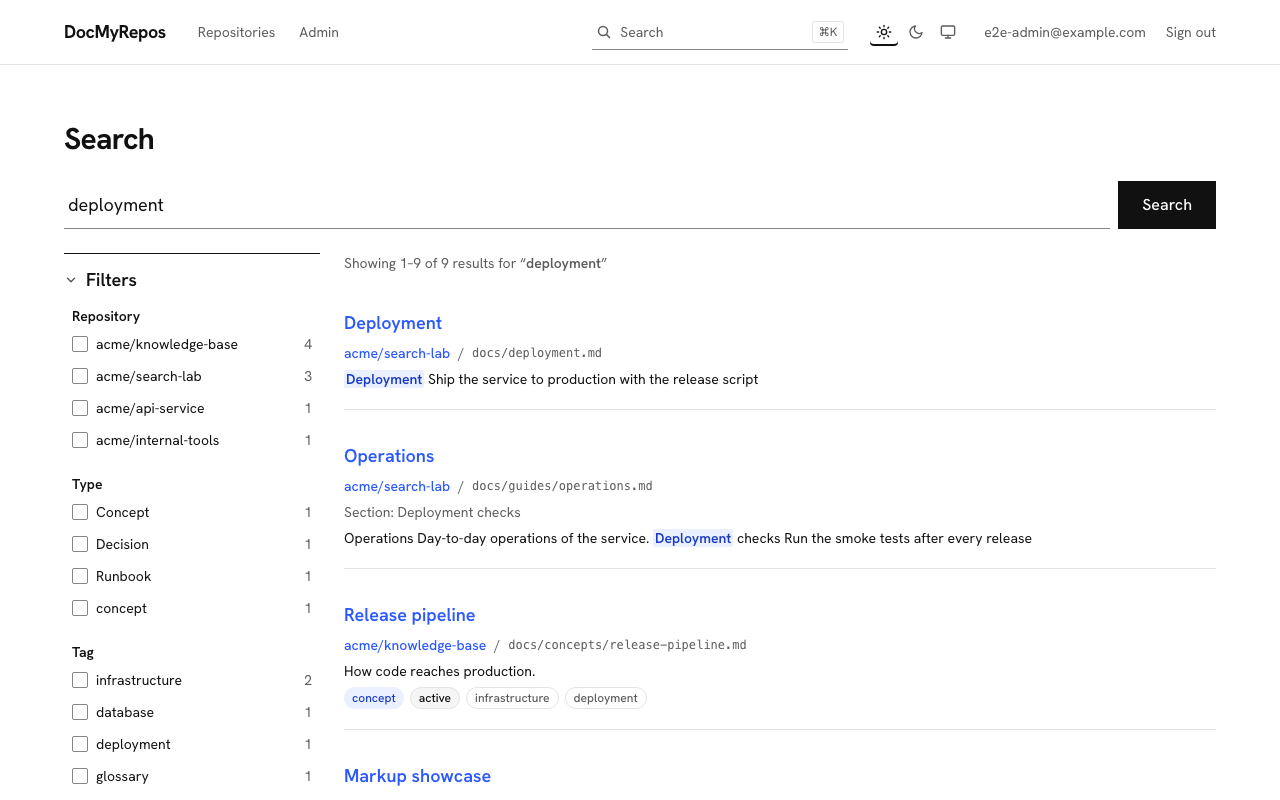
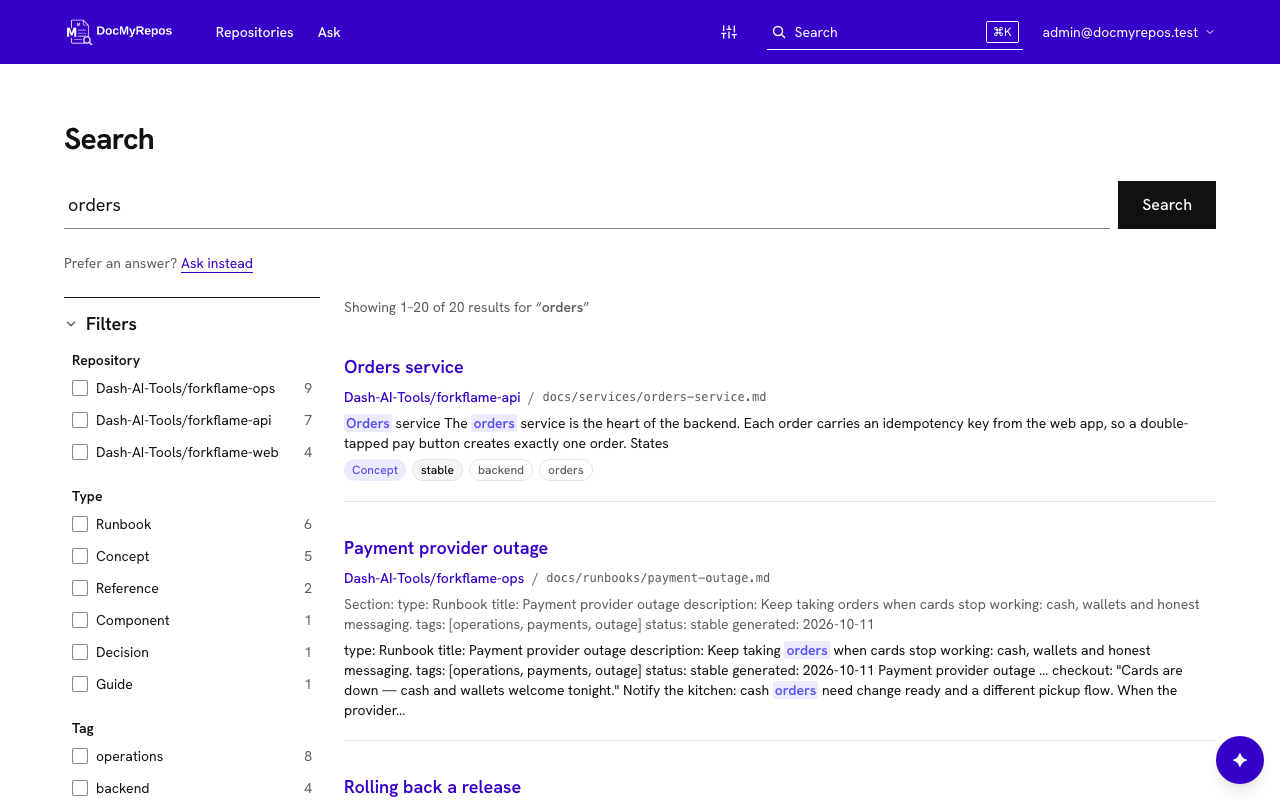
Brand the app and refresh the README
Show the DocMyRepos logo in the footer credit (dark and white variants per
theme) and serve the favicon and touch icon. The icons and footer logos are
public paths in the proxy so the sign-in page gets them too, and the image
now ships public/.

Rework the README header with the logo, a short pitch and feature tags,
retake the screenshots from a real synced instance, add API reference,
workspace and status shots, and update the first-run steps for the Run
first sync button.

diff --git a/src/components/site-footer.tsx b/src/components/site-footer.tsx
@@ -6,16 +6,32 @@ export function SiteFooter() {
   return (
     <footer data-read-hide className="border-t border-border">
       <div className="site-shell mx-auto flex w-full max-w-[88rem] flex-wrap justify-between gap-2 px-5 py-8 text-sm text-muted-foreground sm:px-8 lg:px-16">
-        <span>
-          Powered by{" "}
+        <span className="inline-flex flex-wrap items-center gap-x-2">
+          Powered by
           <a
             href={REPO_URL}
             target="_blank"
             rel="noopener noreferrer"
             data-testid="footer-credit-link"
-            className="text-muted-foreground underline hover:text-foreground"
+            className="inline-flex items-center hover:opacity-80"
           >
-            DocMyRepos
+            {/* The dark logo is for light surfaces, the white one for the dark theme. */}
+            {/* eslint-disable-next-line @next/next/no-img-element */}
+            <img
+              src="/logo-black.png"
+              alt="DocMyRepos"
+              width={480}
+              height={135}
+              className="h-6 w-auto dark:hidden"
+            />
+            {/* eslint-disable-next-line @next/next/no-img-element */}
+            <img
+              src="/logo-white.png"
+              alt="DocMyRepos"
+              width={480}
+              height={137}
+              className="hidden h-6 w-auto dark:block"
+            />
           </a>
           {" · "}
           <a

diff --git a/src/components/site-footer.test.tsx b/src/components/site-footer.test.tsx
@@ -16,6 +16,15 @@ describe("site footer", () => {
     expect(html).toContain("<svg");
   });
 
+  it("shows the logo inside the credit link, one image per theme, from this origin", () => {
+    const html = renderToStaticMarkup(<SiteFooter />);
+    const link = /<a [^>]*data-testid="footer-credit-link"[^>]*>(.*?)<\/a>/.exec(html)?.[1] ?? "";
+    expect(link).toContain('src="/logo-black.png"');
+    expect(link).toContain('src="/logo-white.png"');
+    expect(link.match(/alt="DocMyRepos"/g)).toHaveLength(2);
+    expect(link).toContain("dark:hidden");
+  });
+
   it("keeps the Sync status link and renders the same whatever branding is set", () => {
     const html = renderToStaticMarkup(<SiteFooter />);
     expect(html).toContain('data-testid="footer-status-link"');

diff --git a/src/proxy.ts b/src/proxy.ts
@@ -34,6 +34,12 @@ function isPublicPath(pathname: string): boolean {
     // Portal logo: shown on the sign-in page, so served without a session. Exactly this
     // path; nothing else under `/api/branding/` is public.
     pathname === "/api/branding/logo" ||
+    // Product brand files: the favicon, the touch icon and the footer credit logos, which the
+    // sign-in page needs too. Exactly these paths; they hold no data.
+    pathname === "/icon.png" ||
+    pathname === "/apple-icon.png" ||
+    pathname === "/logo-black.png" ||
+    pathname === "/logo-white.png" ||
     // Fixture pages for component tests (gated separately by E2E_FIXTURES, see e2e-fixtures.ts).
     pathname.startsWith("/e2e/")
   );

diff --git a/src/proxy.test.ts b/src/proxy.test.ts
@@ -274,6 +274,13 @@ describe("proxy: auth gate (access-control)", () => {
     }
   });
 
+  it("lets the favicon, touch icon and footer logos through without a session", async () => {
+    for (const path of ["/icon.png", "/apple-icon.png", "/logo-black.png", "/logo-white.png"]) {
+      expect((await gated(path)).headers.get("x-middleware-next"), path).toBe("1");
+    }
+    expect((await gated("/logo-black.png.bak")).status).not.toBe(200);
+  });
+
   it("lets a valid session through and rejects tampered or expired ones", async () => {
     const { signSession, newSessionPayload } = await import("./server/auth/session");
     const valid = signSession(SECRET, newSessionPayload(1, "admin", 0));

diff --git a/README.md b/README.md
@@ -1,15 +1,39 @@
-# DocMyRepos
+<p align="center">
+  <picture>
+    <source media="(prefers-color-scheme: dark)" srcset="brand/white-logo.png">
+    <img alt="DocMyRepos" src="brand/logo.png" width="420">
+  </picture>
+</p>
 
-[![CI](https://github.com/Dash-AI-Tools/doc-my-repos/actions/workflows/ci.yml/badge.svg)](https://github.com/Dash-AI-Tools/doc-my-repos/actions/workflows/ci.yml)
-[![License: MIT](https://img.shields.io/badge/license-MIT-blue.svg)](LICENSE)
+<h3 align="center">One searchable home for the documentation scattered across all your GitHub repositories.</h3>
 
-Search and showcase the Markdown documentation of all your GitHub repositories in one place.
+<p align="center">
+  Point DocMyRepos at your GitHub organization and every repository's <code>docs/</code> folder becomes a fast, good-looking, searchable portal. No docs site to build, no pipeline per repo, and your Markdown stays where it lives.
+</p>
+
+<p align="center">
+  <a href="https://github.com/Dash-AI-Tools/doc-my-repos/actions/workflows/ci.yml"><img alt="CI" src="https://github.com/Dash-AI-Tools/doc-my-repos/actions/workflows/ci.yml/badge.svg"></a>
+  <a href="LICENSE"><img alt="License: MIT" src="https://img.shields.io/badge/license-MIT-blue.svg"></a>
+  <img alt="Self-hosted" src="https://img.shields.io/badge/self--hosted-Docker%20%2B%20Postgres-2b50e0">
+  <img alt="Read-only GitHub App" src="https://img.shields.io/badge/GitHub%20App-read--only-0b1437">
+</p>
+
+<p align="center">
+  <img alt="Org-wide full-text search" src="https://img.shields.io/badge/%F0%9F%94%8E-Org--wide%20search-2b50e0">
+  <img alt="Ask the docs, with citations" src="https://img.shields.io/badge/%E2%9C%A8-Ask%20the%20docs-2b50e0">
+  <img alt="OKF aware" src="https://img.shields.io/badge/%F0%9F%97%82-OKF%20aware-2b50e0">
+  <img alt="OpenAPI reference" src="https://img.shields.io/badge/%F0%9F%93%98-OpenAPI%20reference-2b50e0">
+  <img alt="Mermaid and Shiki" src="https://img.shields.io/badge/%F0%9F%A7%9C-Mermaid%20%2B%20Shiki-2b50e0">
+  <img alt="Comments" src="https://img.shields.io/badge/%F0%9F%92%AC-Comments-2b50e0">
+  <img alt="Your branding" src="https://img.shields.io/badge/%F0%9F%8E%A8-Your%20branding-2b50e0">
+  <img alt="Light and dark" src="https://img.shields.io/badge/%F0%9F%8C%97-Light%20%26%20dark-2b50e0">
+</p>
 
 DocMyRepos syncs the `docs/` folder of each repository you choose from your GitHub organization into Postgres, gives every repository its own space, and gives the whole organization one search box. It works with plain Markdown and has first-class support for [Open Knowledge Format (OKF)](https://github.com/GoogleCloudPlatform/knowledge-catalog/blob/main/okf/SPEC.md).
 
 <picture>
   <source media="(prefers-color-scheme: dark)" srcset="docs-assets/screenshots/home-dark.png">
-  <img alt="The DocMyRepos home page: a search box and a grid of repository cards" src="docs-assets/screenshots/home-light.png">
+  <img alt="The DocMyRepos home page: a search box and the repository list" src="docs-assets/screenshots/home-light.png">
 </picture>
 
 ## Contents
@@ -39,54 +63,76 @@ DocMyRepos syncs the `docs/` folder of each repository you choose from your GitH
 - **API reference**: OpenAPI 3.0/3.1 and Swagger 2.0 files are found in each repository and shown on a read-only reference page (see [API reference](#api-reference)).
 - **Comments**: signed-in users discuss a document on its page, admins can answer as the organization and moderate. Comments are stored in the portal, not in GitHub (see [Comments](#comments)).
 - **Ask the docs**: an optional assistant answers questions in plain language from the synced documents, with references to the exact sections. Off until an admin sets it up; the operator brings the model (see [Ask the docs](#ask-the-docs)).
+- **Your branding**: admins set the organization name, page title, colors and logo from `/admin/branding` (see [Branding](#branding)).
 - **Light and dark themes**: light, dark, or follow the system, including code blocks and diagrams, without a flash on load.
 - **Fresh content**: GitHub webhooks re-sync a repository when its default branch changes, and a scheduled full sync catches missed deliveries. Syncs are incremental (tree SHA, then blob SHA), idempotent and serialized per repository; a failed sync keeps the previous content.
 - **Self-hostable**: one Next.js app plus Postgres, with a Docker image and Compose file. Behind a login with admin and user roles (see [Security](#security)).
 
 ## Screenshots
 
-Each image has a light and a dark version; GitHub shows the one that matches your theme. They are generated from seeded demo data by `pnpm screenshots`.
+Each image has a light and a dark version; GitHub shows the one that matches your theme. They were captured from a running instance synced from a real GitHub organization, with the portal branded from `/admin/branding` (purple top bar and logo). The documents shown belong to a fictitious restaurant called Fork & Flame and to this repository.
 
-**A repository: README, documentation tree and code owners**
+**A repository: README, filters and documentation tree**
 
 <picture>
   <source media="(prefers-color-scheme: dark)" srcset="docs-assets/screenshots/repo-dark.png">
-  <img alt="A repository page with its README, the documentation tree and the code owners panel" src="docs-assets/screenshots/repo-light.png">
+  <img alt="A repository page with its README, the OKF type, tag and status filters and the documentation tree" src="docs-assets/screenshots/repo-light.png">
 </picture>
 
-**A document with highlighted code and a Mermaid diagram**
+**A document with metadata, a Mermaid diagram and comments**
 
 <picture>
   <source media="(prefers-color-scheme: dark)" srcset="docs-assets/screenshots/doc-dark.png">
-  <img alt="A document page with code blocks, a table, a task list and a Mermaid diagram, next to an outline and the documentation tree" src="docs-assets/screenshots/doc-light.png">
+  <img alt="A document page with its metadata card, a Mermaid diagram, a comments section, an outline and the documentation tree" src="docs-assets/screenshots/doc-light.png">
 </picture>
 
 **Search across all repositories**
 
 <picture>
   <source media="(prefers-color-scheme: dark)" srcset="docs-assets/screenshots/search-dark.png">
-  <img alt="Search results for the word deployment with highlighted snippets and repository, type and tag filters" src="docs-assets/screenshots/search-light.png">
+  <img alt="Search results for the word orders with highlighted snippets and repository, type and tag filters" src="docs-assets/screenshots/search-light.png">
 </picture>
 
 **The command palette (`Ctrl/Cmd+K`)**
 
 <picture>
   <source media="(prefers-color-scheme: dark)" srcset="docs-assets/screenshots/palette-dark.png">
-  <img alt="The quick search palette listing documents that match deployment" src="docs-assets/screenshots/palette-light.png">
+  <img alt="The quick search palette listing documents that match orders" src="docs-assets/screenshots/palette-light.png">
 </picture>
 
 **OKF: filter by type, tag and status**
 
 <picture>
   <source media="(prefers-color-scheme: dark)" srcset="docs-assets/screenshots/okf-filters-dark.png">
-  <img alt="An OKF repository with the Runbook and concept types selected in the filter panel" src="docs-assets/screenshots/okf-filters-light.png">
+  <img alt="An OKF repository with the Concept and Decision types selected in the filter panel" src="docs-assets/screenshots/okf-filters-light.png">
 </picture>
 
 **OKF: the metadata of a document**
 
 <picture>
   <source media="(prefers-color-scheme: dark)" srcset="docs-assets/screenshots/okf-metadata-dark.png">
-  <img alt="A document page with its OKF metadata card: type, status, tags, sources, dates and other fields" src="docs-assets/screenshots/okf-metadata-light.png">
+  <img alt="A document page with its OKF metadata card: type, status, tags, dates and other fields" src="docs-assets/screenshots/okf-metadata-light.png">
+</picture>
+
+**API reference from an OpenAPI file**
+
+<picture>
+  <source media="(prefers-color-scheme: dark)" srcset="docs-assets/screenshots/api-reference-dark.png">
+  <img alt="The API reference page of a repository, rendered from its openapi.yaml with servers, tags and operations" src="docs-assets/screenshots/api-reference-light.png">
+</picture>
+
+**Admin: workspace configuration**
+
+<picture>
+  <source media="(prefers-color-scheme: dark)" srcset="docs-assets/screenshots/workspace-dark.png">
+  <img alt="Workspace configuration with the GitHub connection status, the GitHub App fields and the docs folders" src="docs-assets/screenshots/workspace-light.png">
+</picture>
+
+**Sync status**
+
+<picture>
+  <source media="(prefers-color-scheme: dark)" srcset="docs-assets/screenshots/status-dark.png">
+  <img alt="The sync status page with the last run and the state of every repository" src="docs-assets/screenshots/status-light.png">
 </picture>
 
 ## How it works
@@ -133,7 +179,13 @@ cp .env.example .env
 docker compose up -d --build --wait    # app + Postgres 17; the app applies the migrations on start
 ```
 
-Open <http://127.0.0.1:3000>. The portal is behind a login: sign in with `ADMIN_EMAIL` and `ADMIN_PASSWORD`, which create the first admin the first time you log in while no users exist (then remove both from `.env`). Next, you are taken to **Admin > Workspace configuration**, where a pop-up lists the steps. Enter the GitHub App ID, installation ID, private key and webhook secret (use **Test GitHub connection**), and optionally which repositories to show. Admins also add users and choose which repositories are visible under **Admin**. The background scheduler is on in the image, but its startup sync happens before you have entered the settings, so right after saving them start the first sync yourself:
+Open <http://127.0.0.1:3000>. The portal is behind a login: sign in with `ADMIN_EMAIL` and `ADMIN_PASSWORD`, which create the first admin the first time you log in while no users exist (then remove both from `.env`). Next, you are taken to **Admin > Workspace configuration**, where a pop-up lists the steps:
+
+1. On the **GitHub & sync** tab, enter the GitHub App ID, installation ID, private key and webhook secret, press **Save** and use **Test GitHub connection**. The connection summary shows a check mark for every value that is set.
+2. On the **Repository access** tab, choose which repositories are shown (all, only a list, or all except a list) and which of them signed-in users can see, then press **Run first sync**. The background scheduler is on in the image, but its startup sync runs before you have entered the settings, so this button is what fills the portal the first time. Progress and errors are on `/status`.
+3. Optionally, turn on [Ask the docs](#ask-the-docs) on the **Ask** tab and set the portal's name, colors and logo under **Admin > Branding**. Admins also add users under **Admin > Users**.
+
+To start a sync from a script or cron job instead, call the manual sync endpoint:
 
 ```bash
 curl -X POST -H "Authorization: Bearer <SYNC_SECRET from .env>" http://127.0.0.1:3000/api/sync
@@ -155,7 +207,7 @@ pnpm db:migrate          # applies the SQL migrations in drizzle/
 pnpm dev                 # http://localhost:3000
 ```
 
-The background scheduler is off in development, so `pnpm dev` never calls GitHub on its own. Start a sync with the `curl` command above (against `http://localhost:3000`). GitHub can only deliver webhooks to a public URL; use a tunnel such as smee.io or ngrok (see the [setup guide](docs/github-app-setup.md#8-local-development)). Until an admin enters the GitHub App at `/admin/workspace`, the app still starts and serves, the home page says nothing is synced yet, and `/status` names what is missing.
+The background scheduler is off in development, so `pnpm dev` never calls GitHub on its own. Start the first sync with **Run first sync** on the **Repository access** tab, or with the `curl` command above (against `http://localhost:3000`). GitHub can only deliver webhooks to a public URL; use a tunnel such as smee.io or ngrok (see the [setup guide](docs/github-app-setup.md#8-local-development)). Until an admin enters the GitHub App at `/admin/workspace`, the app still starts and serves, the home page says nothing is synced yet, and `/status` names what is missing.
 
 ## Configuration
 
@@ -351,7 +403,7 @@ pnpm test                # unit and database tests (Vitest)
 pnpm test:e2e            # browser tests (Playwright), needs Postgres
 pnpm build               # production build
 pnpm db:generate         # create a Drizzle migration after a schema change
-pnpm screenshots         # regenerate docs-assets/screenshots
+pnpm screenshots         # demo-data screenshots into docs-assets/screenshots (overwrites the README ones)
 openspec validate docmyrepos-mvp
 ```
 
